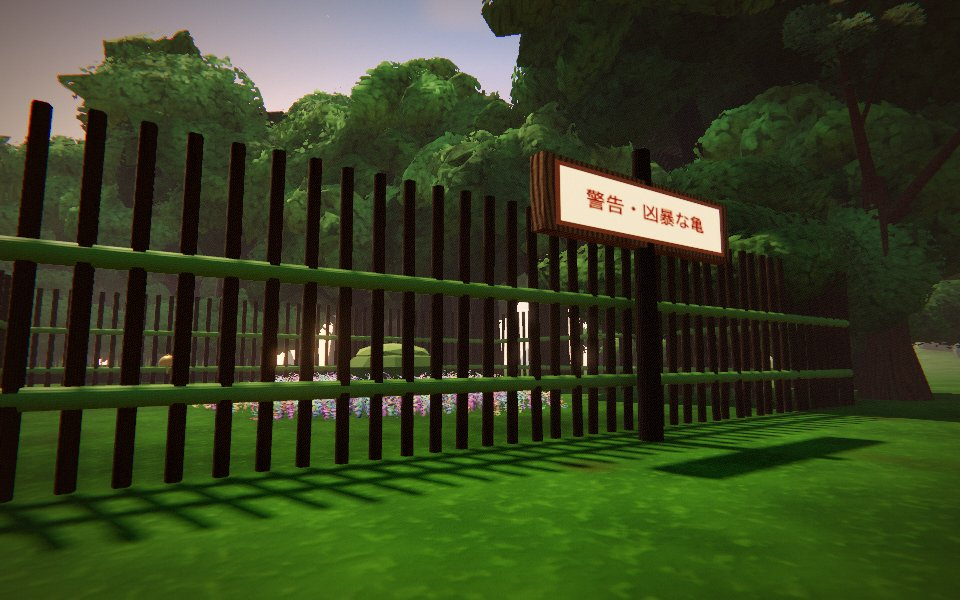
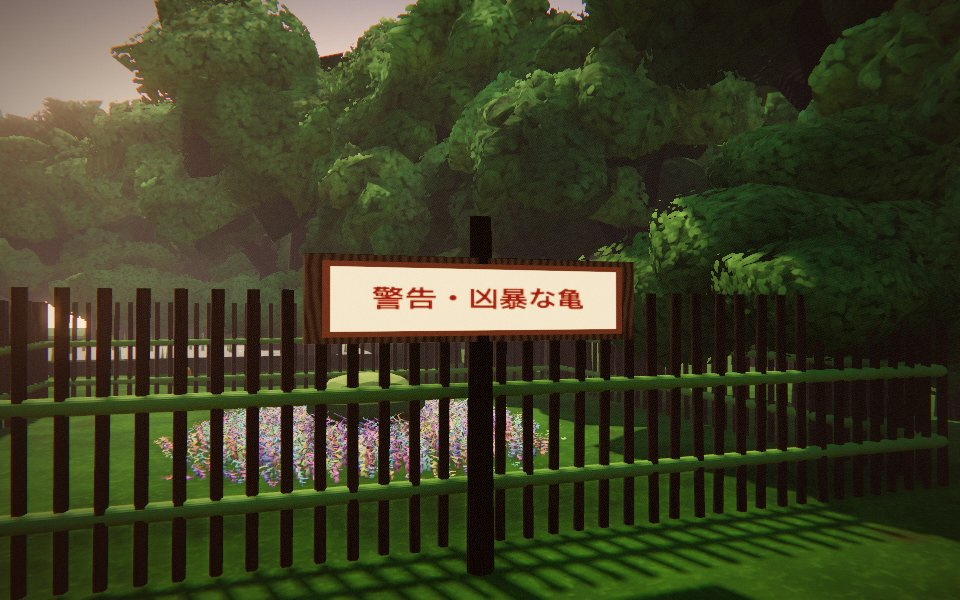
v-fences fix round 1: bake culms into merged geometry, real sign shots, handoff materials/perf

diff --git a/src/kit/fences/fence.js b/src/kit/fences/fence.js
@@ -7,7 +7,7 @@
 // tilts[n + 1], colliderHeight, role, footprint. The footprint and the
 // bambooFences list entry are the layout's own; nothing here changes them.
 import { defineAsset } from '../contract.js?v=20261113a';
-import { culmGeometry, knotGeometry, FINISHES } from './culm.js?v=20261113a';
+import { culmGeometry, knotGeometry, bake, FINISHES } from './culm.js?v=20261113a';
 
 const RAILS = [0.32, 0.82];
 
@@ -49,31 +49,27 @@ export const bambooFence = defineAsset({
     const list = [];
     const thick = params.thickness;
     for (const y of RAILS) list.push({ x: len / 2, y, z: -0.01, rz: Math.PI / 2, r: 0.045 * thick, l: len });
-    const _o = new THREE.Object3D(), _v = new THREE.Vector3(), _e = new THREE.Euler();
+    const _v = new THREE.Vector3(), _e = new THREE.Euler();
     for (let i = 0; i <= n; i++) {
       const sx = -len / 2 + i * (len / n), post = i === 0 || i === n;
-      const ph = post && tier === 'hero' ? h + 0.04 : h;
+      const ph = h;
       const tilt = post ? 0 : tilts[i] * params.lean;
       // classic slats tilt about their middle; place the culm's base so the middle stays put
       _e.set(tilt, 0, 0);
       _v.set(0, -ph / 2, 0).applyEuler(_e);
       list.push({ x: sx + _v.x, y: ph / 2 + _v.y, z: _v.z, rx: tilt, r: (post ? 0.05 : 0.032) * thick, l: ph });
     }
-    const culms = new THREE.InstancedMesh(culmGeo, mat, list.length);
-    const col = new THREE.Color();
-    list.forEach((c, i) => {
-      _o.position.set(c.x, c.y, c.z);
-      _o.rotation.set(c.rx || 0, 0, c.rz || 0);
-      _o.scale.set(c.r, c.l, c.r);
-      _o.updateMatrix();
-      culms.setMatrixAt(i, _o.matrix);
+    const objs = [], tints = [];
+    for (const c of list) {
+      const o = new THREE.Object3D();
+      o.position.set(c.x, c.y, c.z); o.rotation.set(c.rx || 0, 0, c.rz || 0); o.scale.set(c.r, c.l, c.r); o.updateMatrix();
+      objs.push(o);
       const v = 0.9 + rng() * 0.16;
-      culms.setColorAt(i, col.setRGB(v, v * (0.97 + rng() * 0.05), v * 0.94));
-    });
-    culms.instanceMatrix.needsUpdate = true;
-    if (culms.instanceColor) culms.instanceColor.needsUpdate = true;
+      tints.push([v, v * (0.97 + rng() * 0.05), v * 0.94]);
+    }
+    // baked into one plain indexed mesh on a merge-able material (see culm.js bake)
+    const culms = new THREE.Mesh(bake(THREE, culmGeo, objs, tints), mat);
     culms.castShadow = culms.receiveShadow = true;
-    culms.userData.sharedGeometry = true;
     culms.name = 'culms';
     group.add(culms);
     const parts = { culms };
@@ -82,21 +78,19 @@ export const bambooFence = defineAsset({
     if (params.lashing && tier !== 'far') {
       const kg = knotGeometry(THREE, tier);
       const kmat = km.plain(0x2a2017, { rough: 1 });
-      const knots = new THREE.InstancedMesh(kg, kmat, (n + 1) * RAILS.length);
-      let k = 0;
+      const ko = [];
       for (let i = 0; i <= n; i++) {
         const sx = -len / 2 + i * (len / n);
         for (const y of RAILS) {
-          _o.position.set(sx, y, 0.012 * (i % 2 ? 1 : -1));
-          _o.rotation.set(Math.PI / 2, 0, rng() * 3);
-          _o.scale.setScalar(0.05 * thick);
-          _o.updateMatrix();
-          knots.setMatrixAt(k++, _o.matrix);
+          const o = new THREE.Object3D();
+          o.position.set(sx, y, 0.012 * (i % 2 ? 1 : -1));
+          o.rotation.set(Math.PI / 2, 0, rng() * 3);
+          o.scale.setScalar(0.05 * thick);
+          o.updateMatrix(); ko.push(o);
         }
       }
-      knots.instanceMatrix.needsUpdate = true;
+      const knots = new THREE.Mesh(bake(THREE, kg, ko), kmat);
       knots.castShadow = true;
-      knots.userData.sharedGeometry = true;
       knots.name = 'knots';
       group.add(knots);
       parts.knots = knots;

diff --git a/src/kit/fences/corral.js b/src/kit/fences/corral.js
@@ -6,7 +6,7 @@
 // vegetation exclusion stay in the layout's footprint (countryside.js) and are
 // registered from `layout.footprint` untouched.
 import { defineAsset } from '../contract.js?v=20261113a';
-import { culmGeometry, knotGeometry, FINISHES } from './culm.js?v=20261113a';
+import { culmGeometry, knotGeometry, bake, FINISHES } from './culm.js?v=20261113a';
 
 export const corral = defineAsset({
   id: 'corral', family: 'fences', lab: 'fences/corral',
@@ -24,28 +24,29 @@ export const corral = defineAsset({
     const group = new THREE.Group();
     const o = new THREE.Object3D();
     const corners = [[-1, -1], [1, -1], [-1, 1], [1, 1]];
-    const posts = new THREE.InstancedMesh(culmGeometry(THREE, tier), km.bamboo({ color: FINISHES[params.finish], vcol: true, rough: 0.5 }), 4);
-    const col = new THREE.Color();
-    corners.forEach(([sx, sz], i) => {
-      o.position.set(sx * w / 2, 0, sz * d / 2);
-      o.rotation.set((rng() - 0.5) * 0.02, rng() * 6, (rng() - 0.5) * 0.02);
-      o.scale.set(params.post_radius, params.post_height, params.post_radius);
-      o.updateMatrix(); posts.setMatrixAt(i, o.matrix);
-      const v = 0.92 + rng() * 0.12; posts.setColorAt(i, col.setRGB(v, v, v * 0.95));
+    const po = [], pt = [];
+    corners.forEach(([sx, sz]) => {
+      const q = new THREE.Object3D();
+      q.position.set(sx * w / 2, 0, sz * d / 2);
+      q.rotation.set((rng() - 0.5) * 0.02, rng() * 6, (rng() - 0.5) * 0.02);
+      q.scale.set(params.post_radius, params.post_height, params.post_radius);
+      q.updateMatrix(); po.push(q);
+      const v = 0.92 + rng() * 0.12; pt.push([v, v, v * 0.95]);
     });
-    posts.instanceMatrix.needsUpdate = true; if (posts.instanceColor) posts.instanceColor.needsUpdate = true;
-    posts.castShadow = posts.receiveShadow = true; posts.userData.sharedGeometry = true;
+    const posts = new THREE.Mesh(bake(THREE, culmGeometry(THREE, tier), po, pt), km.bamboo({ color: FINISHES[params.finish], vcol: true, rough: 0.5 }));
+    posts.castShadow = posts.receiveShadow = true;
     group.add(posts);
     const parts = { corner_posts: posts };
     if (tier !== 'far') {
       // two cord lashings per post: below the cap and at the fence-rail height
-      const lash = new THREE.InstancedMesh(knotGeometry(THREE, tier), km.plain(0x2a2017, { rough: 1 }), 8);
-      let k = 0;
+      const lo = [];
       for (const [sx, sz] of corners) for (const y of [0.82, params.post_height - 0.12]) {
-        o.position.set(sx * w / 2, y, sz * d / 2); o.rotation.set(Math.PI / 2, 0, 0); o.scale.setScalar(params.post_radius * 1.15);
-        o.updateMatrix(); lash.setMatrixAt(k++, o.matrix);
+        const q = new THREE.Object3D();
+        q.position.set(sx * w / 2, y, sz * d / 2); q.rotation.set(Math.PI / 2, 0, 0); q.scale.setScalar(params.post_radius * 1.15);
+        q.updateMatrix(); lo.push(q);
       }
-      lash.instanceMatrix.needsUpdate = true; lash.castShadow = true; lash.userData.sharedGeometry = true;
+      const lash = new THREE.Mesh(bake(THREE, knotGeometry(THREE, tier), lo), km.plain(0x2a2017, { rough: 1 }));
+      lash.castShadow = true;
       group.add(lash); parts.lashings = lash;
     }
     return { group, parts };

diff --git a/src/kit/fences/culm.js b/src/kit/fences/culm.js
@@ -5,9 +5,10 @@
 // (vertex colour), the same profile as labs/shared/bamboo.js `culmGeometry`
 // with the ring count cut by tier.
 import { lerp } from '../craft.js?v=20261113a';
+import { mergeGeometries } from 'three/addons/utils/BufferGeometryUtils.js';
 
 const TIER_CULM = {
-  hero: { nodes: 5, radial: 8, rows: 5 },
+  hero: { nodes: 5, radial: 7, rows: 3 },
   mid: { nodes: 4, radial: 5, rows: 3 },
   far: { nodes: 0, radial: 4, rows: 1 }
 };
@@ -54,7 +55,7 @@ export function culmGeometry(THREE, tier) {
 export function knotGeometry(THREE, tier) {
   const key = THREE.REVISION + ':' + tier;
   if (knots.has(key)) return knots.get(key);
-  const g = tier === 'hero' ? new THREE.TorusGeometry(1, 0.32, 5, 9) : new THREE.TorusGeometry(1, 0.34, 3, 5);
+  const g = tier === 'hero' ? new THREE.TorusGeometry(1, 0.32, 4, 7) : new THREE.TorusGeometry(1, 0.34, 3, 5);
   g.userData.shared = true;
   knots.set(key, g);
   return g;
@@ -62,3 +63,25 @@ export function knotGeometry(THREE, tier) {
 
 /** Age ramp for the three finishes: fresh green, dry straw, weathered brown. */
 export const FINISHES = Object.freeze({ fresh: 0xa9c06a, straw: 0xd2b87c, weathered: 0x9c8056 });
+
+/**
+ * Bake copies of a shared unit geometry into ONE indexed BufferGeometry
+ * (position, normal, uv, and colour when `tints` is given), so the mesh is a
+ * plain Mesh on a merge-able material and Countryside._mergeStatics() folds
+ * every fence in the valley into one draw per material. `objs` are
+ * Object3Ds with `updateMatrix()` already called; `tints[i]` is [r, g, b].
+ */
+export function bake(THREE, geo, objs, tints = null) {
+  const parts = objs.map((o, i) => {
+    const g = geo.clone();
+    g.applyMatrix4(o.matrix);
+    if (tints) {
+      const c = g.attributes.color, t = tints[i];
+      for (let k = 0; k < c.count; k++) c.setXYZ(k, c.getX(k) * t[0], c.getY(k) * t[1], c.getZ(k) * t[2]);
+    } else g.deleteAttribute('color');
+    return g;
+  });
+  const out = mergeGeometries(parts);
+  for (const p of parts) p.dispose();
+  return out;
+}

diff --git a/src/kit/fences/sign.js b/src/kit/fences/sign.js
@@ -3,7 +3,7 @@
 // lashings. Promoted from labs/fences/js/sign.js. Origin at the ground in
 // front of the north fence; the face reads from -z like the classic sign.
 import { defineAsset } from '../contract.js?v=20261113a';
-import { culmGeometry, knotGeometry } from './culm.js?v=20261113a';
+import { culmGeometry, knotGeometry, bake } from './culm.js?v=20261113a';
 import { canvas2d, canvasTexture } from '../craft.js?v=20261113a';
 
 let faceMap = null;   // one canvas texture for the page (shared: never disposed by an instance)
@@ -53,12 +53,10 @@ export const corralSign = defineAsset({
       group.add(cap); parts.cap = cap;
     }
     if (tier === 'hero') {
-      const kg = knotGeometry(THREE, tier), kmat = km.plain(0x2a2017, { rough: 1 });
-      const lash = new THREE.InstancedMesh(kg, kmat, 2);
-      const o = new THREE.Object3D();
-      [boardY - 0.12, boardY + 0.12].forEach((y, i) => { o.position.set(0, y, 0); o.rotation.set(Math.PI / 2, 0, 0); o.scale.setScalar(0.075); o.updateMatrix(); lash.setMatrixAt(i, o.matrix); });
-      lash.instanceMatrix.needsUpdate = true;
-      lash.userData.sharedGeometry = true;
+      const lo = [boardY - 0.12, boardY + 0.12].map((y) => {
+        const o = new THREE.Object3D(); o.position.set(0, y, 0); o.rotation.set(Math.PI / 2, 0, 0); o.scale.setScalar(0.075); o.updateMatrix(); return o;
+      });
+      const lash = new THREE.Mesh(bake(THREE, knotGeometry(THREE, tier), lo), km.plain(0x2a2017, { rough: 1 }));
       group.add(lash); parts.lashing = lash;
     }
     group.traverse((o) => { if (o.isMesh) o.castShadow = true; });

diff --git a/docs/fable/handoff/v-fences.md b/docs/fable/handoff/v-fences.md
@@ -24,8 +24,23 @@
 ## Footprint
 No waivers. Every instance's footprint is `layout.footprint` (runtime default, R12): colliders, platform, `bambooFences` list entry, the corral exclusion, and Larry's patrol bounds (in the `larry` component layout) are untouched. Footprint golden: classic EQUAL; modular swap of all three ids: only `objects`/`aggregates`/`baked`/`counts` sections differ (mesh composition), no colliders/platforms/exclusions/anchors/waterRects changes.
 
-## Materials
-Reuses `kitMaterials.bamboo` (vertex-coloured, finish tints fresh/straw/weathered; only the chosen finish is created), `plain` (cord), `wood` (sign), `paper` (sign face, lit, with the shared canvas texture). Default build creates 4 kit materials (bamboo straw, plain cord, wood x2 for the sign boards; paper counts as the 5th): `kit:` family total within R26? Bamboo finish + cord + 2 woods + paper; the three finishes are alternatives, not simultaneous. If the Integrator counts strictly against R26 "one new merged material", these are all existing `KitMaterials` factories and other lanes (garden, greenery) will memoise the same entries only when args match.
+## Materials (R26)
+All from existing `KitMaterials` factories; NEW merged materials added by this family: 0 beyond the shared set below (the bamboo finishes are alternatives: only the chosen one is created).
+- Possibly shared with other lanes (memoised by args): `plain(0x2a2017, rough 1)` cord, `wood` x2 (sign post cap/board colours), `paper` with the sign face map.
+- Family-specific by arguments: `bamboo({color: finish tint, vcol: true, rough 0.5})` (straw by default), one per finish in use.
+Default valley build creates at most 5 kit materials (bamboo straw, cord, 2 woods, paper); if R26 counts distinct args strictly, that is the family's total and the Integrator may trim by sharing the cord/wood with other families.
+
+## Draw calls and triangles (perf_spots, high, boots 1, 60 frames; classic vs swap of all three ids)
+Fences are now baked into plain indexed meshes on merge-able materials (not InstancedMesh), so `_mergeStatics` folds them into the valley's per-material draws.
+| Spot | Draw calls classic -> modular | Triangles/frame classic -> modular |
+|---|---|---|
+| street | 763 -> 751 (-12) | 8,116,087 -> 8,503,793 (+388k, +4.8%) |
+| meadow | 735 -> 706 (-29) | 7,535,912 -> 7,867,954 (+332k, +4.4%) |
+Triangle cost: merged statics are not frustum-culled, so every fence in the valley is drawn from every spot (hero detail near, shadow pass counted). Hero culm was trimmed (7 radial, 3 rows per node) to hold this.
+
+## Cosmetic deviations from classic
+- far-tier sign uses the dark wood for post and board (the far budget allows 2 materials); hero/mid sign post is bamboo.
+- hero end posts are now the same height as the verticals (fix round 1; previously +4 cm).
 
 ## Helpers to move into shared kit code
 - `src/kit/fences/culm.js` `culmGeometry(THREE, tier)` (per-tier unit culm with swollen nodes, cached) and `knotGeometry`: reusable by bamboo grove, garden and tea-garden lanes (promote to `src/kit/craft.js` if wanted).

diff --git a/docs/fable/status/v-fences.md b/docs/fable/status/v-fences.md
@@ -46,3 +46,6 @@ None.
 
 ## Notes for the Integrator
 See docs/fable/handoff/v-fences.md (inventory row for corral-sign, kit_test fixture bug, helper promotion).
+
+## Fix round 1
+Fences/corral posts/sign lashings baked into plain merged geometry (no InstancedMesh); merged fable/integration. perf_spots draw calls 763->751 (street), 735->706 (meadow); triangles +4.8% / +4.4%. corral-sign JPGs re-shot from a real sign-framed camera. Hero end posts no longer 4 cm taller. Far sign dark wood is documented in the handoff. See the report's Fix round 1 section.
